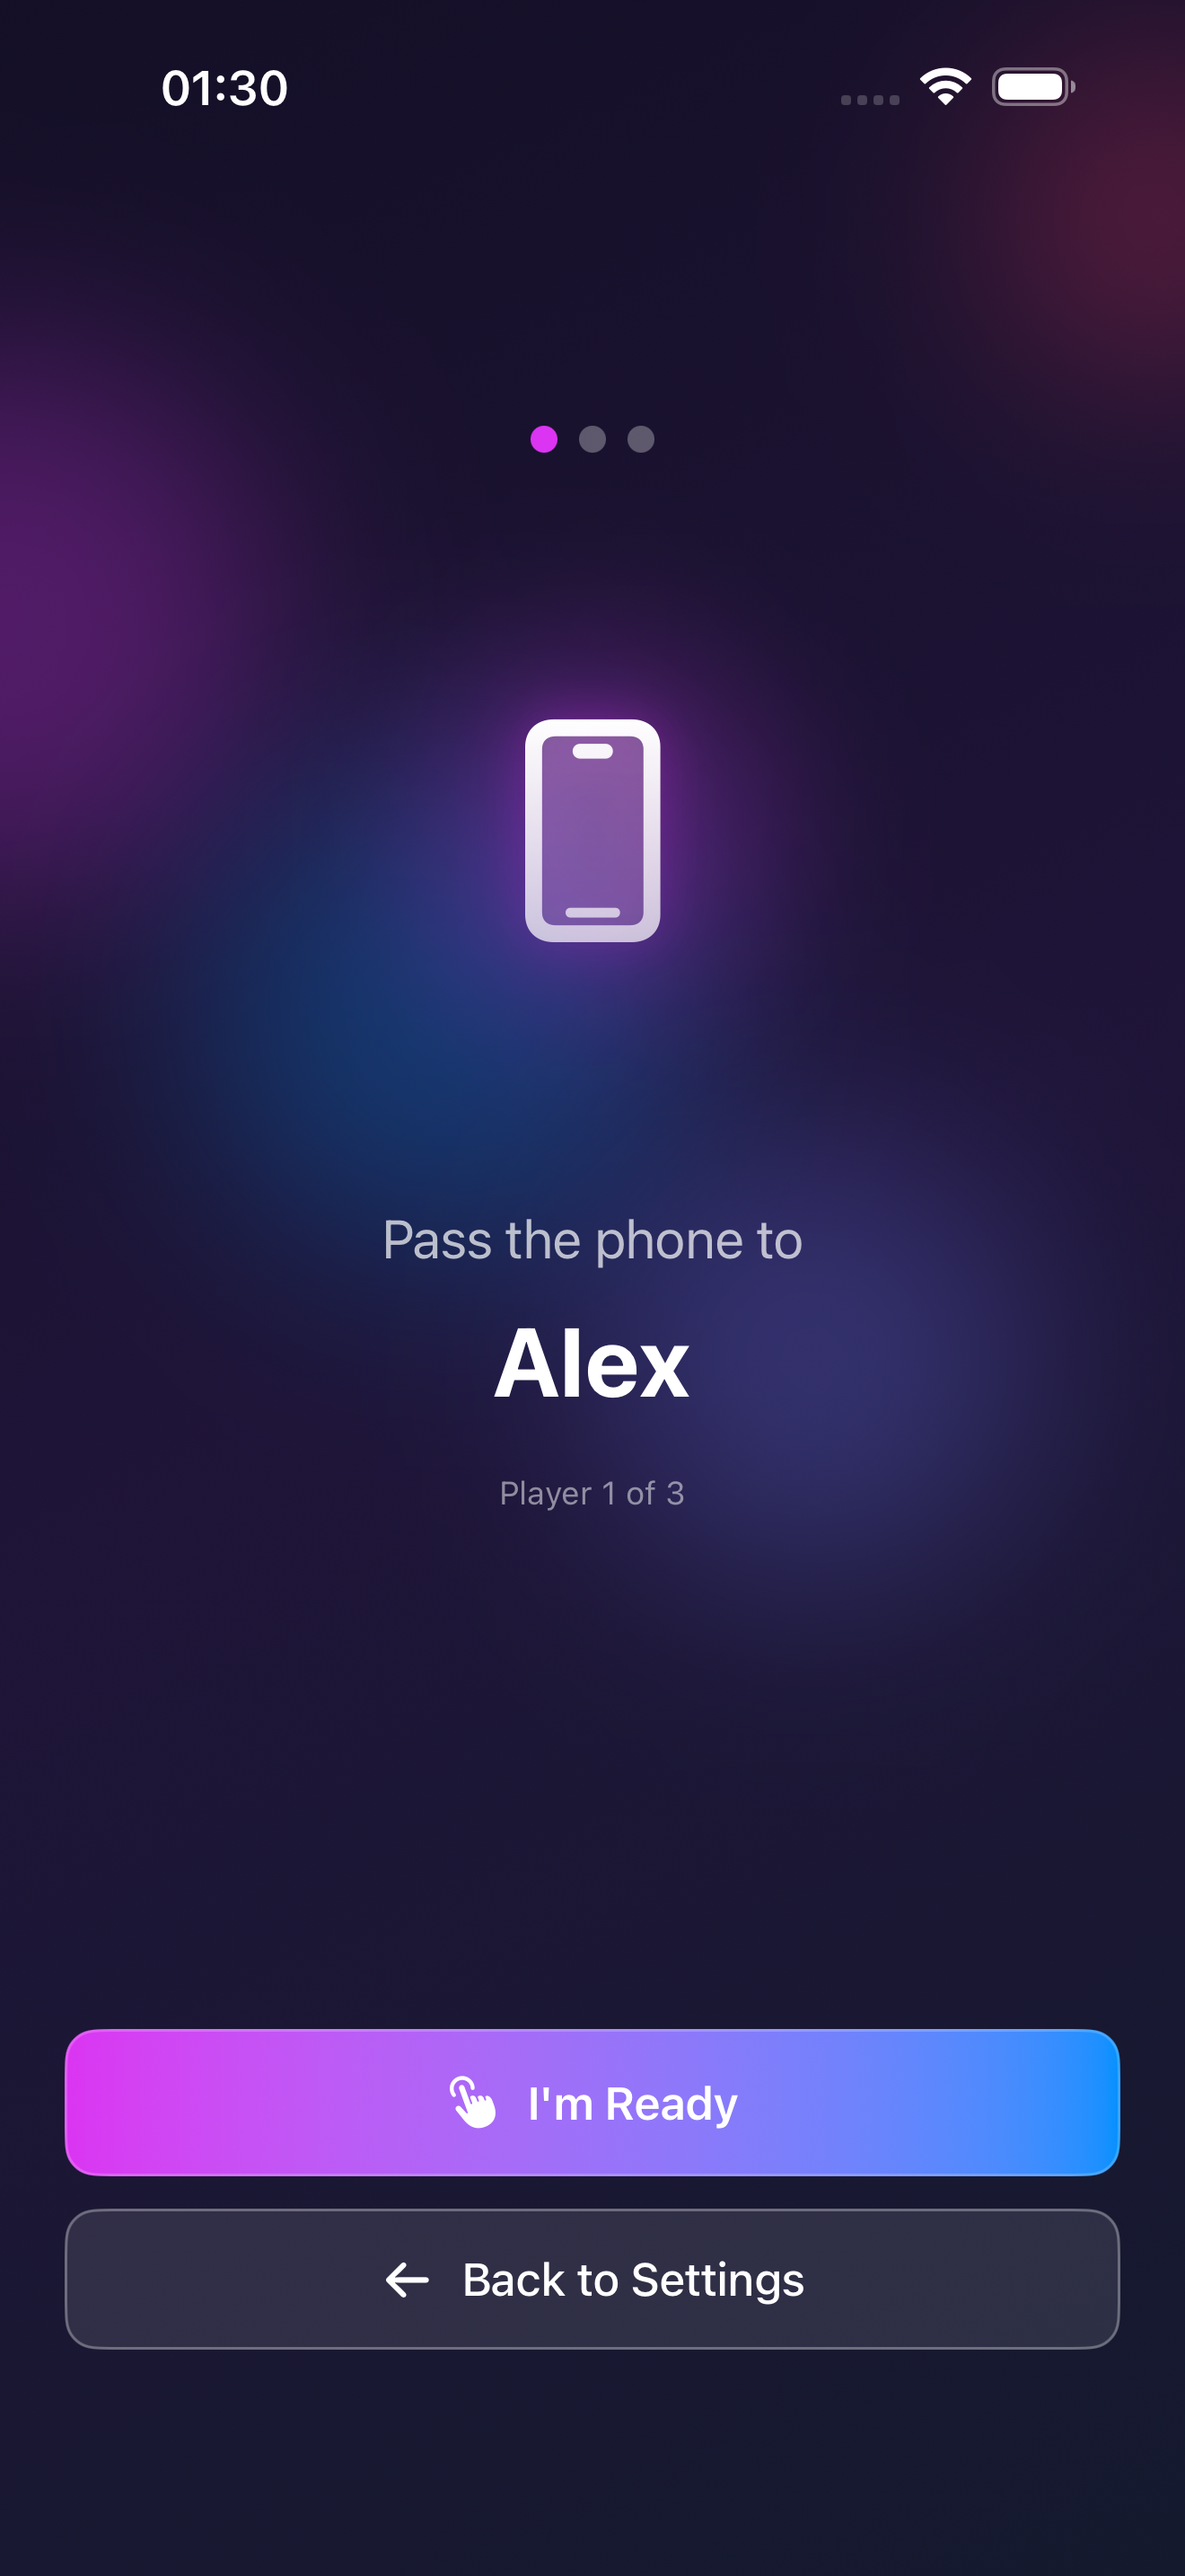
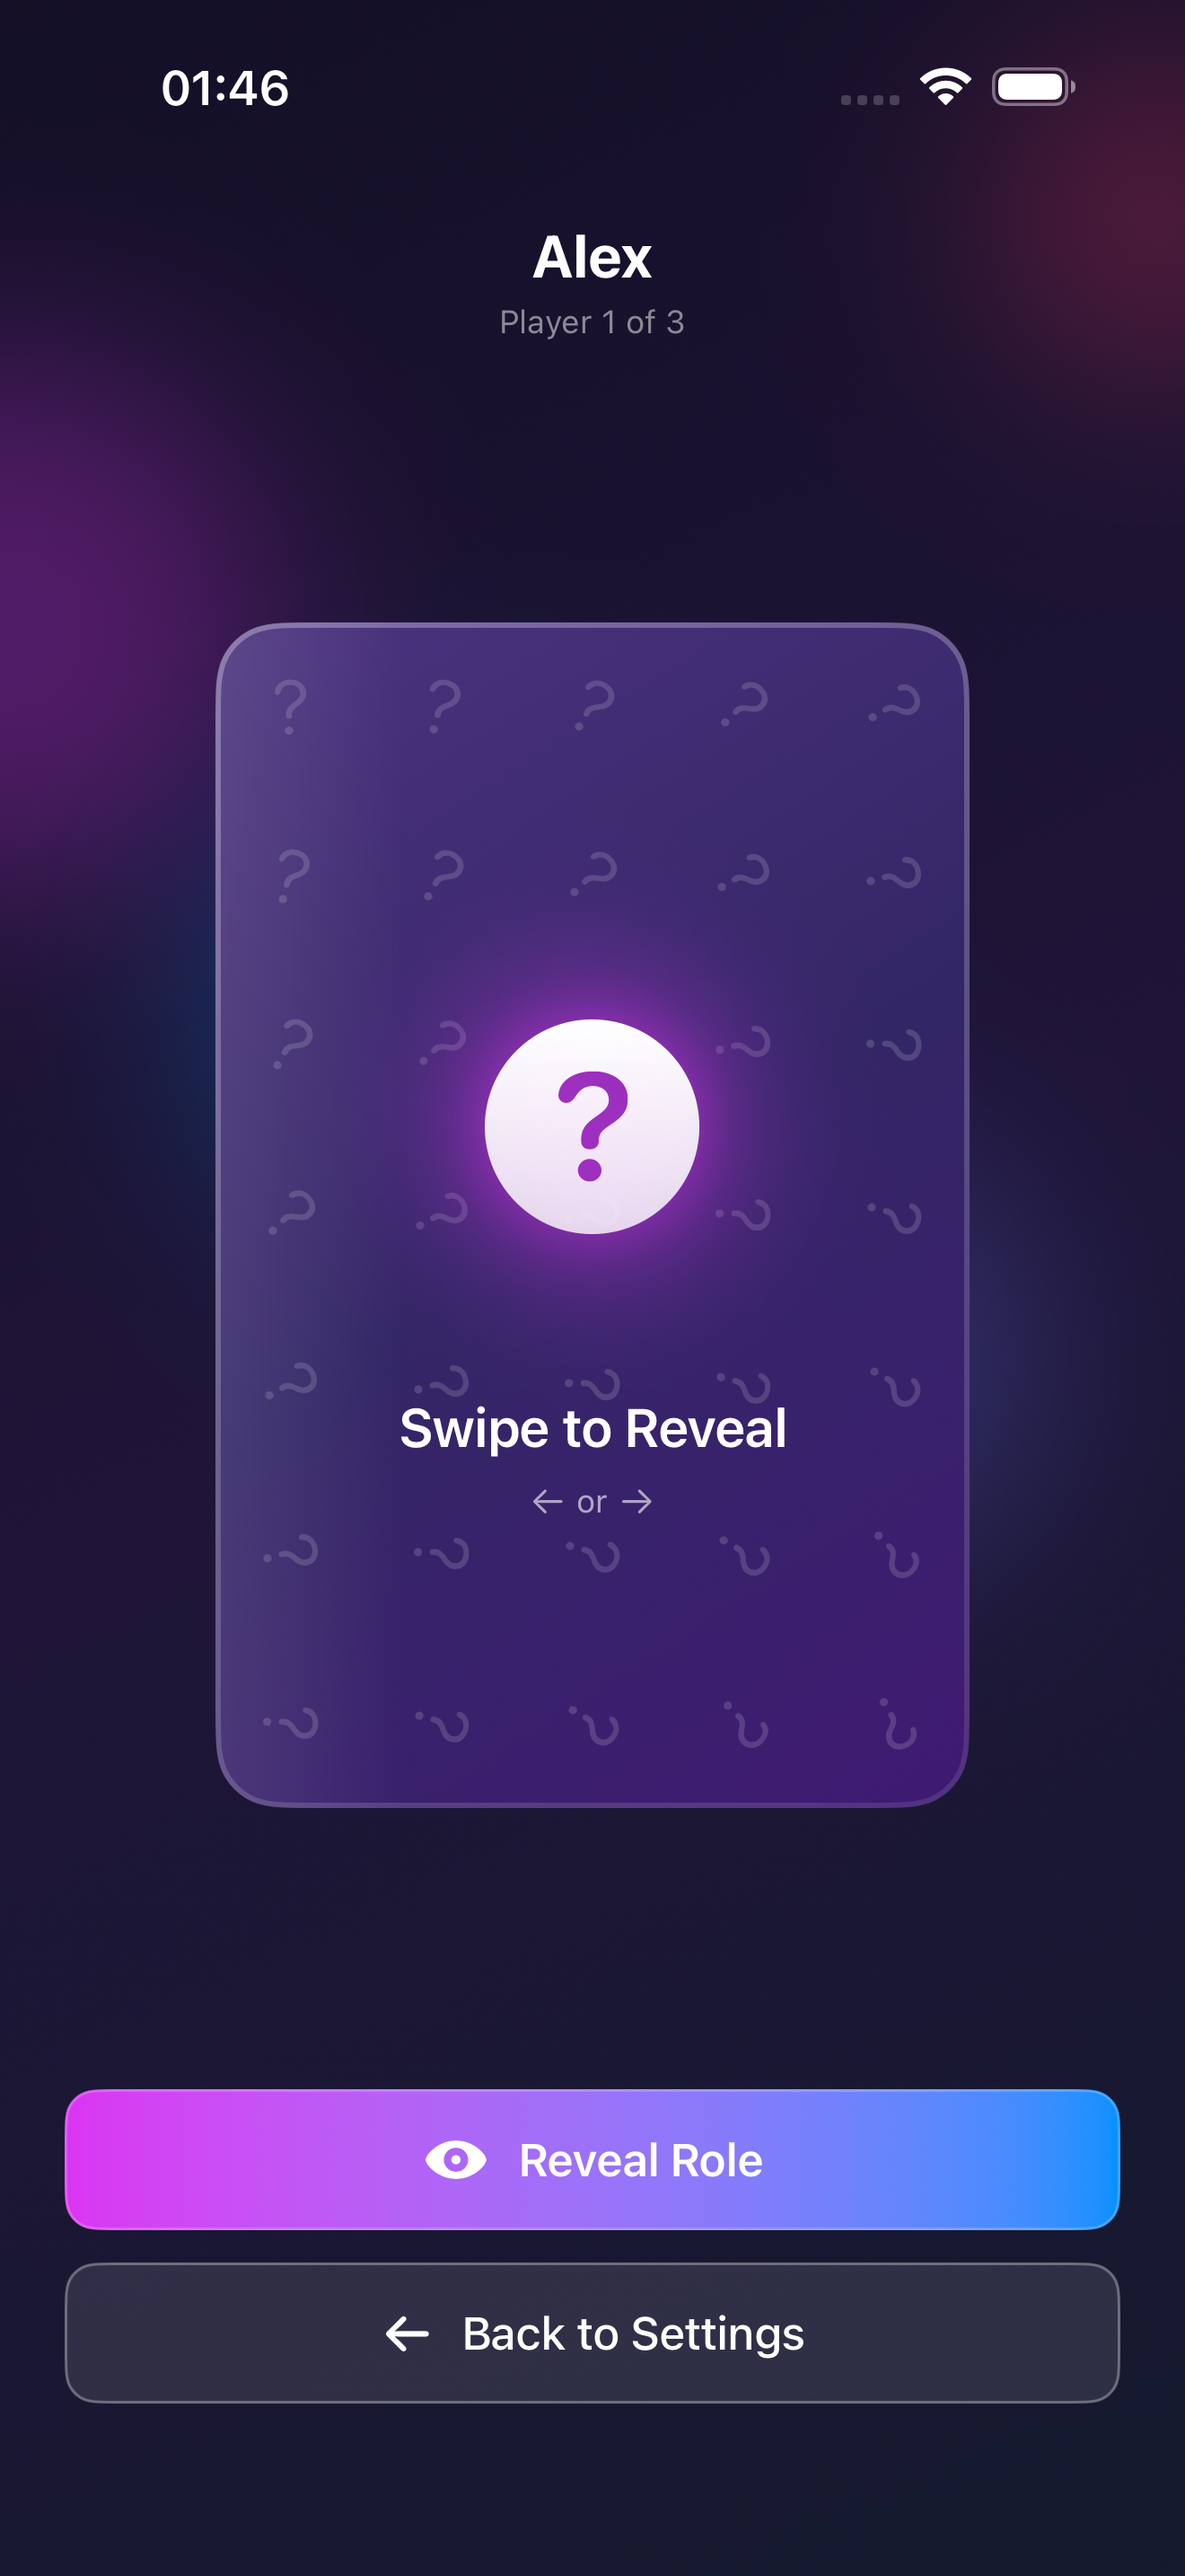
Fix App Store role-reveal screenshot evidence

diff --git a/AppStore/Submission.md b/AppStore/Submission.md
@@ -66,8 +66,8 @@ Environment:
 - Marketing version 1.0, build number 2
 
 Automated commands and outcomes:
-1. `xcodebuild test -project "Find The Imposter.xcodeproj" -scheme "Find The Imposter" -destination "platform=iOS Simulator,name=iPhone 17 Pro,OS=26.5" -derivedDataPath /tmp/imposter-hunt-final-tests-20260716`
-   Outcome: ** TEST SUCCEEDED **; 31 tests passed, 0 failed.
+1. `xcodebuild test -project "Find The Imposter.xcodeproj" -scheme "Find The Imposter" -destination "platform=iOS Simulator,name=iPhone 17 Pro,OS=26.5" -derivedDataPath /tmp/imposter-hunt-final-tests-clean-20260716`
+   Outcome: ** TEST SUCCEEDED **; 30 tests passed, 0 failed (committed tree only; no untracked screenshot helper).
 2. `xcodebuild build -project "Find The Imposter.xcodeproj" -scheme "Find The Imposter" -configuration Release -destination "generic/platform=iOS" -derivedDataPath /tmp/imposter-hunt-final-release-20260716 CODE_SIGNING_ALLOWED=NO`
    Outcome: ** BUILD SUCCEEDED **.
 3. `xcodebuild analyze -project "Find The Imposter.xcodeproj" -scheme "Find The Imposter" -configuration Release -destination "generic/platform=iOS" -derivedDataPath /tmp/imposter-hunt-final-analyze-20260716 CODE_SIGNING_ALLOWED=NO`
@@ -87,8 +87,8 @@ Automated commands and outcomes:
 Manual simulator QA (iPhone 17 Pro Max, Reduce Motion enabled for motion checks; also verified accessibility-extra-extra-extra-large content size on home):
 - Home branding shows Imposter Hunt with Start Game and Settings; no overlays in screenshot 01.
 - Game Settings shows all difficulties selected, 23 of 23 categories selected, custom words entry, Begin Game (screenshot 02).
-- Role flow starts at pass-the-phone for player Alex without exposing secret role or word data (screenshot 03).
-- Existing automated UI coverage also exercised home launch, duplicate player-name block, role reveal by button, back-to-settings from role reveal, and Settings → Custom Words / Privacy Policy (ImposterHuntUITests, included in the 31-test suite above).
+- Role-reveal card for Alex in face-down state ("Swipe to Reveal" / Reveal Role) with no secret role or word exposed (screenshot 03).
+- Existing automated UI coverage also exercised home launch, duplicate player-name block, role reveal by button, back-to-settings from role reveal, and Settings → Custom Words / Privacy Policy (ImposterHuntUITests, included in the 30-test suite above).
 - Reduce Motion preference confirmed enabled (`ReduceMotionEnabled=1`); home remained usable under accessibility XXXL text size.
 
 Screenshots committed:
